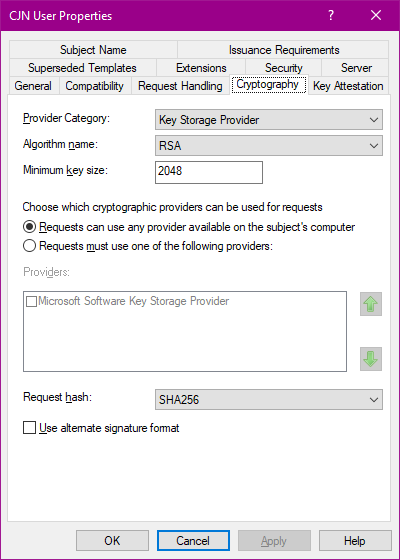
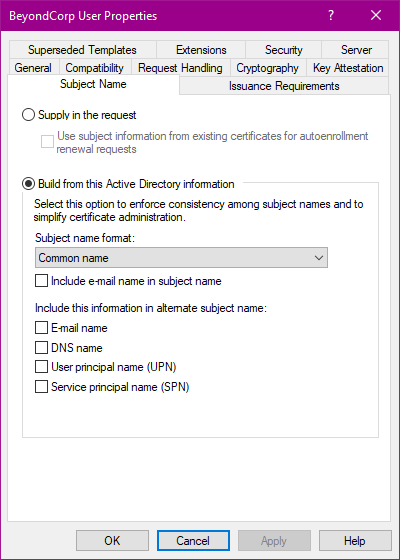
Use more secure certificate template settings

Changed region(s): [[0.03, 0.0, 0.96, 0.7893], [0.9, 0.5161, 0.96, 0.5768], [0.84, 0.5161, 0.87, 0.5464]]

diff --git a/doc/site/sources/docs/setup-caa-with-a-beyondcorp-certificate-access-policy.md b/doc/site/sources/docs/setup-caa-with-a-beyondcorp-certificate-access-policy.md
@@ -26,25 +26,50 @@ of public key infrastructure you use.
     ![Certificate template](images/caa-adcs-template.png){ width="250", align=right }
 
     1.  Open the **Certificate Templates** MMC snap-in.
-    1.  Right-click the **User** template and select **Duplicate template**.
-    1.  On the **General** tab, configure the following settings:
-
-        *   **Template display name**: Enter a name such as `BeyondCorp User`
+    1.  Right-click the **User** template and select **All tasks > Duplicate template**.
         
     1.  On the **Compatibility** tab, configure the following settings:
 
         *   **Certificate authority**: **Windows Server 2012** or a later version
         *   **Certificate recipient**: **Windows 8/Windows Server 2012** or a later version
         
+    1.  On the **General** tab, configure the following settings:
+
+        *   **Template display name**: Enter a name such as `BeyondCorp User`
+        
+    1.  On the **Request handling** tab, configure the following settings:
+    
+        *   **Allow private key to be exported**: **disabled**
+        
     1.  On the **Cryptography** tab, configure the following settings:
 
         *   **Provider category**: **Key Storage Provider**
-        
-    1.  On the **Subject name** tab, configure the following settings:
 
+    1.  On the **Subject name** tab, select **Build from Active Directory information** and 
+        configure the following settings:
+
+        *   **Subject name format**: **Common name**
         *   **Include e-mail name in subject name**: **disabled**
         *   **E-mail name**: **disabled**
+        *   **DNS name**: **disabled**
+        *   **User principal name**: **disabled**
+        *   **Service principal name**: **disabled**
+    
+        These settings help limit the risk of bad actors abusing the certificate for other purposes
+        such as smart card authentication. 
+        
+        For further details on how Windows determines whether
+        a certificate can be used for smart card authentication, see 
+        [Client certificate mappings :octicons-link-external-16:](https://learn.microsoft.com/en-us/previous-versions/windows/it-pro/windows-server-2008-R2-and-2008/ff404289(v=ws.10)#client-certificate-mappings).
+        For additional ways to mitigate risks, see [How to disable the Subject Alternative Name for UPN mapping :octicons-link-external-16:](https://learn.microsoft.com/en-us/troubleshoot/windows-server/windows-security/disable-subject-alternative-name-upn-mapping).
+    
+    1.  On the **Extensions** tab, select **Application Policies** and click **Edit**.
+        Then configure the following settings:
 
+        *   **Application policies**: **Client authentication**
+        
+            Remove all other policies.
+            
     1.  On the **Security** tab, select one or more groups that you want to
         distribute the certificate to. Grant each group the following permissions:
         
